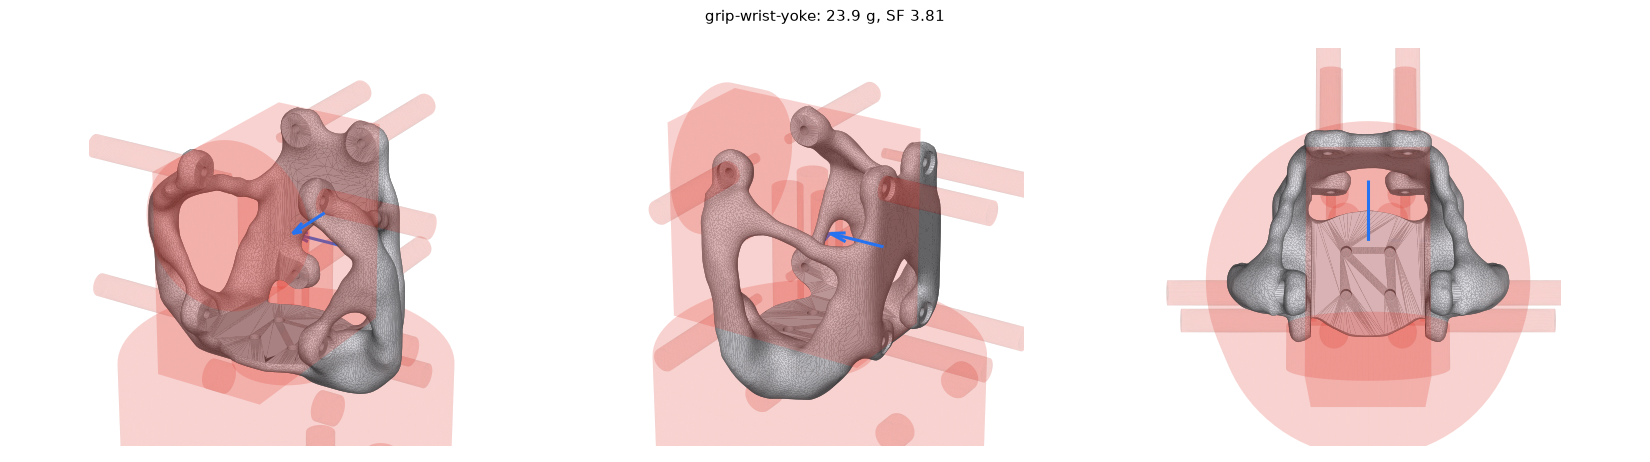
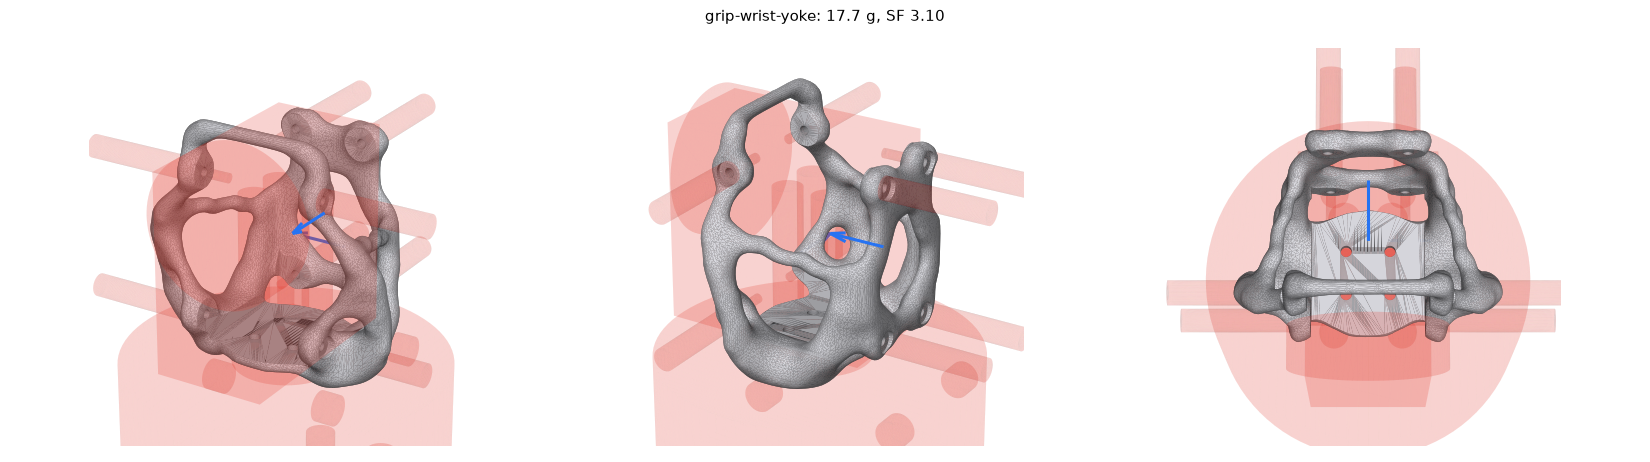
docs: gallery from the main reference eval run at ec7180c (9/11)

diff --git a/docs/GALLERY.md b/docs/GALLERY.md
@@ -1,6 +1,6 @@
 # Gallery
 
-Rendered 2026-10-29 from `edbf0ab` by `python docs/gallery.py`.
+Rendered 2026-10-29 from `ec7180c` by `python docs/gallery.py`.
 
 Regenerate with the commands at the top of [`gallery.py`](gallery.py). Stress maps colour worst-case von Mises stress against the part's own 98th percentile, to show the load paths, on the shape bent by the worst load case, exaggerated; the margin against the material is the SF.
 
@@ -8,7 +8,7 @@ Regenerate with the commands at the top of [`gallery.py`](gallery.py). Stress ma
 
 46.2 g · 63% lighter · SF 8.47 · pass
 
-<sub>deflection 0.493 mm · p5Member 3.41 mm · creaseLength 0.0 mm · volumeFraction 28% · 736 s</sub>
+<sub>deflection 0.493 mm · p5Member 3.41 mm · creaseLength 0.0 mm · volumeFraction 28% · 711 s</sub>
 
 ![arm-link-driven](images/cases/arm-link-driven-views.png)
 
@@ -18,7 +18,7 @@ Regenerate with the commands at the top of [`gallery.py`](gallery.py). Stress ma
 
 58.9 g · 53% lighter · SF 14.78 · pass
 
-<sub>deflection 0.450 mm · p5Member 3.47 mm · creaseLength 0.0 mm · volumeFraction 39% · 722 s</sub>
+<sub>deflection 0.450 mm · p5Member 3.47 mm · creaseLength 0.0 mm · volumeFraction 39% · 524 s</sub>
 
 ![arm-link](images/cases/arm-link-views.png)
 
@@ -26,9 +26,9 @@ Regenerate with the commands at the top of [`gallery.py`](gallery.py). Stress ma
 
 ## bell-crank
 
-26.8 g · 82% lighter · SF 4.14 · pass
+24.1 g · 84% lighter · SF 3.01 · pass
 
-<sub>deflection 0.047 mm · p5Member 4.19 mm · creaseLength 0.0 mm · volumeFraction 9% · 410 s</sub>
+<sub>deflection 0.063 mm · p5Member 4.19 mm · creaseLength 0.0 mm · volumeFraction 7% · 357 s</sub>
 
 ![bell-crank](images/cases/bell-crank-views.png)
 
@@ -36,9 +36,9 @@ Regenerate with the commands at the top of [`gallery.py`](gallery.py). Stress ma
 
 ## grip-turret
 
-257.0 g · 84% lighter · SF 2.25 · **fail**
+208.2 g · 87% lighter · SF 2.36 · **fail**
 
-<sub>deflection 0.368 mm · p5Member 5.49 mm · creaseLength 139.1 mm · volumeFraction 10% · 1931 s</sub>
+<sub>deflection 0.471 mm · p5Member 5.49 mm · creaseLength 117.3 mm · volumeFraction 6% · 1066 s</sub>
 
 ![grip-turret](images/cases/grip-turret-views.png)
 
@@ -46,9 +46,9 @@ Regenerate with the commands at the top of [`gallery.py`](gallery.py). Stress ma
 
 ## grip-upper-arm
 
-208.0 g · 88% lighter · SF 5.96 · **fail**
+208.0 g · 88% lighter · SF 5.96 · pass
 
-<sub>deflection 0.528 mm · p5Member 4.96 mm · creaseLength 37.6 mm · volumeFraction 7% · 1465 s</sub>
+<sub>deflection 0.528 mm · p5Member 4.96 mm · creaseLength 37.6 mm · volumeFraction 7% · 1244 s</sub>
 
 ![grip-upper-arm](images/cases/grip-upper-arm-views.png)
 
@@ -56,9 +56,9 @@ Regenerate with the commands at the top of [`gallery.py`](gallery.py). Stress ma
 
 ## grip-wrist-yoke
 
-23.9 g · 91% lighter · SF 3.81 · **fail**
+17.7 g · 92% lighter · SF 3.10 · **fail**
 
-<sub>deflection 0.087 mm · p5Member 3.41 mm · creaseLength 0.0 mm · volumeFraction 8% · 803 s</sub>
+<sub>deflection 0.152 mm · p5Member 1.46 mm · creaseLength 0.0 mm · volumeFraction 8% · 786 s</sub>
 
 ![grip-wrist-yoke](images/cases/grip-wrist-yoke-views.png)
 
@@ -68,7 +68,7 @@ Regenerate with the commands at the top of [`gallery.py`](gallery.py). Stress ma
 
 22.1 g · 66% lighter · SF 1.51 · pass
 
-<sub>deflection 1.996 mm · p5Member 2.50 mm · creaseLength 0.0 mm · volumeFraction 34% · 368 s</sub>
+<sub>deflection 1.996 mm · p5Member 2.50 mm · creaseLength 0.0 mm · volumeFraction 34% · 272 s</sub>
 
 ![mbb-beam](images/cases/mbb-beam-views.png)
 
@@ -78,7 +78,7 @@ Regenerate with the commands at the top of [`gallery.py`](gallery.py). Stress ma
 
 27.5 g · 69% lighter · SF 3.35 · pass
 
-<sub>deflection 0.321 mm · p5Member 1.46 mm · creaseLength 2.4 mm · volumeFraction 30% · 229 s</sub>
+<sub>deflection 0.321 mm · p5Member 1.46 mm · creaseLength 2.4 mm · volumeFraction 30% · 182 s</sub>
 
 ![motor-mount](images/cases/motor-mount-views.png)
 
@@ -88,7 +88,7 @@ Regenerate with the commands at the top of [`gallery.py`](gallery.py). Stress ma
 
 31.1 g · 79% lighter · SF 2.60 · pass
 
-<sub>deflection 0.633 mm · p5Member 3.41 mm · creaseLength 0.0 mm · volumeFraction 20% · 228 s</sub>
+<sub>deflection 0.633 mm · p5Member 3.41 mm · creaseLength 0.0 mm · volumeFraction 20% · 160 s</sub>
 
 ![printed-hook](images/cases/printed-hook-views.png)
 
@@ -96,9 +96,9 @@ Regenerate with the commands at the top of [`gallery.py`](gallery.py). Stress ma
 
 ## wall-bracket-fasteners
 
-48.1 g · 89% lighter · SF 3.23 · pass
+47.3 g · 89% lighter · SF 3.54 · pass
 
-<sub>deflection 0.155 mm · p5Member 4.55 mm · creaseLength 0.0 mm · volumeFraction 8% · 382 s</sub>
+<sub>deflection 0.166 mm · p5Member 4.55 mm · creaseLength 0.0 mm · volumeFraction 8% · 348 s</sub>
 
 ![wall-bracket-fasteners](images/cases/wall-bracket-fasteners-views.png)
 
@@ -106,9 +106,9 @@ Regenerate with the commands at the top of [`gallery.py`](gallery.py). Stress ma
 
 ## wall-bracket
 
-80.4 g · 81% lighter · SF 3.80 · pass
+80.4 g · 81% lighter · SF 5.04 · pass
 
-<sub>deflection 0.071 mm · p5Member 4.55 mm · creaseLength 9.0 mm · volumeFraction 15% · 426 s</sub>
+<sub>deflection 0.072 mm · p5Member 4.55 mm · creaseLength 9.0 mm · volumeFraction 15% · 372 s</sub>
 
 ![wall-bracket](images/cases/wall-bracket-views.png)
 

diff --git a/README.md b/README.md
@@ -34,18 +34,18 @@ for the method, the study format, goals and limits.
 
 ## Examples
 
-The eval cases (8/11 passing): GRIP robot-arm style parts, each optimized and then checked by a fresh FEA of the delivered mesh. Blue arrows are loads, red is keep-out. Every view, stress map and number is in [docs/GALLERY.md](docs/GALLERY.md).
+The eval cases (9/11 passing): GRIP robot-arm style parts, each optimized and then checked by a fresh FEA of the delivered mesh. Blue arrows are loads, red is keep-out. Every view, stress map and number is in [docs/GALLERY.md](docs/GALLERY.md).
 
 <table>
 <tr>
 <td align="center" valign="top"><img src="docs/images/cases/arm-link-driven.png" width="250"><br><b>arm-link-driven</b><br><sub>46.2 g · 63% lighter · SF 8.47 · pass</sub></td>
 <td align="center" valign="top"><img src="docs/images/cases/arm-link.png" width="250"><br><b>arm-link</b><br><sub>58.9 g · 53% lighter · SF 14.78 · pass</sub></td>
-<td align="center" valign="top"><img src="docs/images/cases/bell-crank.png" width="250"><br><b>bell-crank</b><br><sub>26.8 g · 82% lighter · SF 4.14 · pass</sub></td>
+<td align="center" valign="top"><img src="docs/images/cases/bell-crank.png" width="250"><br><b>bell-crank</b><br><sub>24.1 g · 84% lighter · SF 3.01 · pass</sub></td>
 </tr>
 <tr>
-<td align="center" valign="top"><img src="docs/images/cases/grip-turret.png" width="250"><br><b>grip-turret</b><br><sub>257.0 g · 84% lighter · SF 2.25 · **fail**</sub></td>
-<td align="center" valign="top"><img src="docs/images/cases/grip-upper-arm.png" width="250"><br><b>grip-upper-arm</b><br><sub>208.0 g · 88% lighter · SF 5.96 · **fail**</sub></td>
-<td align="center" valign="top"><img src="docs/images/cases/grip-wrist-yoke.png" width="250"><br><b>grip-wrist-yoke</b><br><sub>23.9 g · 91% lighter · SF 3.81 · **fail**</sub></td>
+<td align="center" valign="top"><img src="docs/images/cases/grip-turret.png" width="250"><br><b>grip-turret</b><br><sub>208.2 g · 87% lighter · SF 2.36 · **fail**</sub></td>
+<td align="center" valign="top"><img src="docs/images/cases/grip-upper-arm.png" width="250"><br><b>grip-upper-arm</b><br><sub>208.0 g · 88% lighter · SF 5.96 · pass</sub></td>
+<td align="center" valign="top"><img src="docs/images/cases/grip-wrist-yoke.png" width="250"><br><b>grip-wrist-yoke</b><br><sub>17.7 g · 92% lighter · SF 3.10 · **fail**</sub></td>
 </tr>
 <tr>
 <td align="center" valign="top"><img src="docs/images/cases/mbb-beam.png" width="250"><br><b>mbb-beam</b><br><sub>22.1 g · 66% lighter · SF 1.51 · pass</sub></td>
@@ -53,8 +53,8 @@ The eval cases (8/11 passing): GRIP robot-arm style parts, each optimized and th
 <td align="center" valign="top"><img src="docs/images/cases/printed-hook.png" width="250"><br><b>printed-hook</b><br><sub>31.1 g · 79% lighter · SF 2.60 · pass</sub></td>
 </tr>
 <tr>
-<td align="center" valign="top"><img src="docs/images/cases/wall-bracket-fasteners.png" width="250"><br><b>wall-bracket-fasteners</b><br><sub>48.1 g · 89% lighter · SF 3.23 · pass</sub></td>
-<td align="center" valign="top"><img src="docs/images/cases/wall-bracket.png" width="250"><br><b>wall-bracket</b><br><sub>80.4 g · 81% lighter · SF 3.80 · pass</sub></td>
+<td align="center" valign="top"><img src="docs/images/cases/wall-bracket-fasteners.png" width="250"><br><b>wall-bracket-fasteners</b><br><sub>47.3 g · 89% lighter · SF 3.54 · pass</sub></td>
+<td align="center" valign="top"><img src="docs/images/cases/wall-bracket.png" width="250"><br><b>wall-bracket</b><br><sub>80.4 g · 81% lighter · SF 5.04 · pass</sub></td>
 </tr>
 </table>
 
@@ -72,7 +72,7 @@ Two-fluid heat exchangers: two isolated channel networks through one sheet gyroi
 
 ![box-crossflow](docs/images/heatx/box-crossflow.png)
 
-<sub>Rendered 2026-10-29 from `edbf0ab` by `python docs/gallery.py`.</sub>
+<sub>Rendered 2026-10-29 from `ec7180c` by `python docs/gallery.py`.</sub>
 
 <!-- gallery:end -->
 
